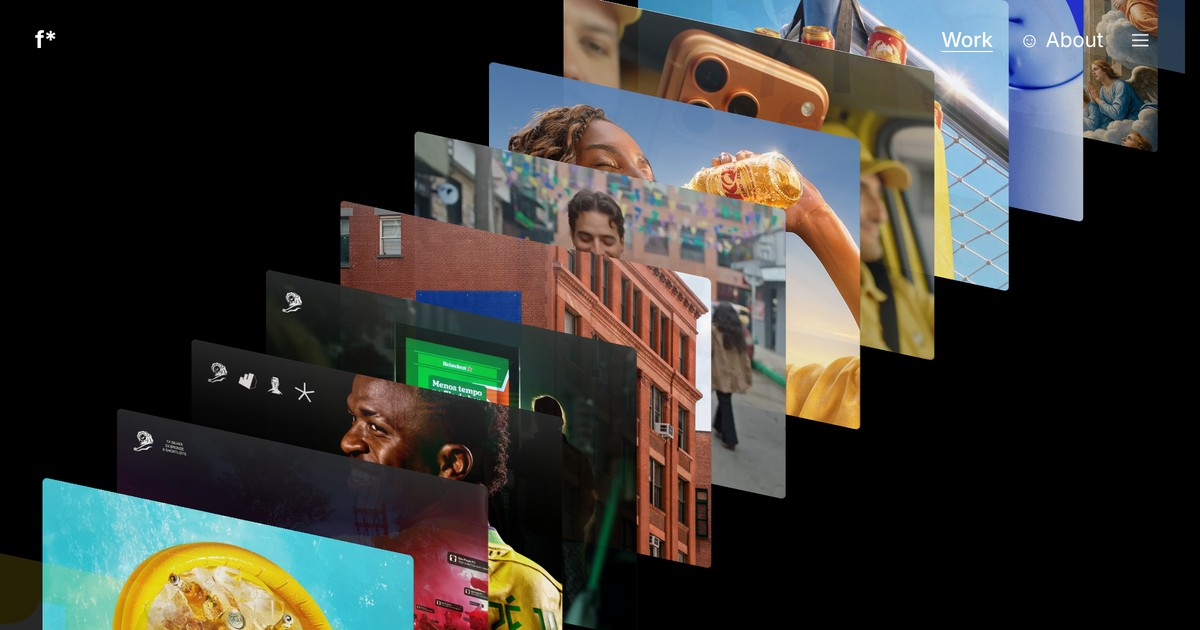
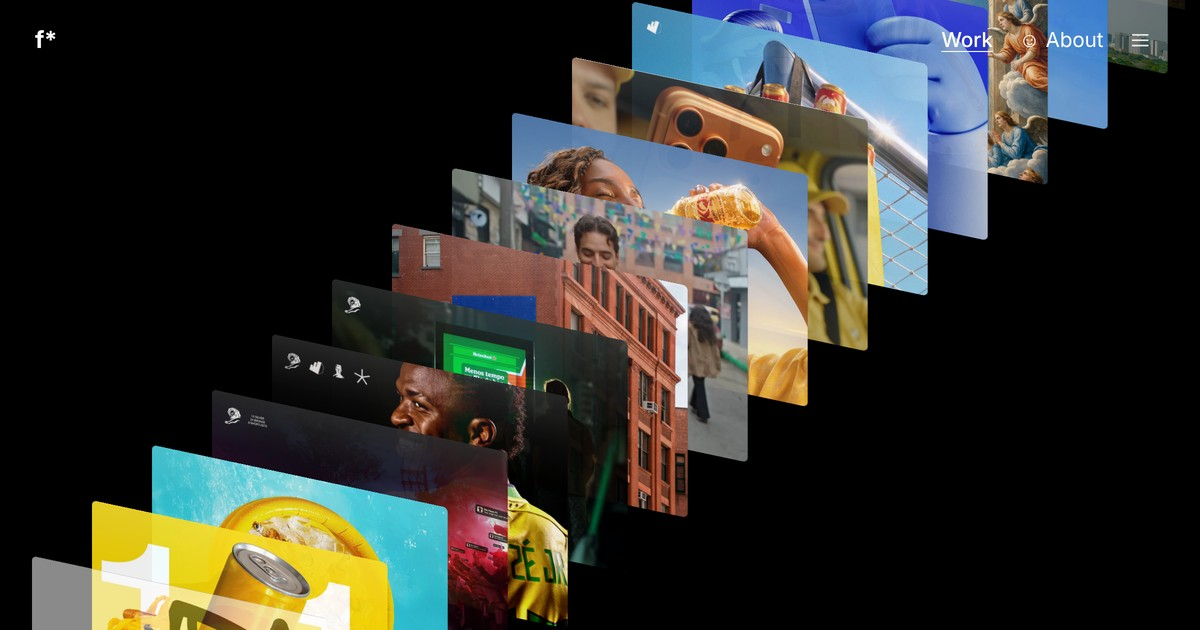
Pilha: capas 20% menores, espaçamento menor e fila mais longa
Claude-Session: https://claude.ai/code/session_01Cy34iprZWCRw34QxSAkRPn

diff --git a/site/404.html b/site/404.html
@@ -9,7 +9,7 @@
 <meta property="og:description" content="Flávio Salzer is a Creative Director and Art Director based in São Paulo. Former LePub and Africa, now back at GUT. Selected work for Zé Delivery, Heineken, New Balance, Skol and more.">
 <meta property="og:type" content="website">
 <meta property="og:url" content="https://flaviosalzer.com/">
-<meta property="og:image" content="https://flaviosalzer.com/og/home.jpg?v=5e35f087">
+<meta property="og:image" content="https://flaviosalzer.com/og/home.jpg?v=e411ae53">
 <meta property="og:image:width" content="1200">
 <meta property="og:image:height" content="630">
 <meta name="twitter:card" content="summary_large_image">
@@ -773,7 +773,7 @@ html,body{background:#000}
     const place = () => {
       raf = 0;
       if (!active()) return;
-      const W = innerWidth, H = innerHeight, ch = H * 0.46, cw = ch * 1891 / 1479;   // whole covers, about half the screen tall
+      const W = innerWidth, H = innerHeight, ch = H * 0.368, cw = ch * 1891 / 1479;   // whole covers, about half the screen tall
       deckEl.style.setProperty('--cw', cw + 'px');
       cur += (pos - cur) * 0.06;
       let moving = Math.abs(pos - cur) > 0.0005;
@@ -784,10 +784,10 @@ html,body{background:#000}
         if (Math.abs((i === hot ? 1 : 0) - lift[i]) > 0.002) moving = true;
         if (opening) return;
         // centres run along a diagonal through the middle of the screen
-        const cx = W * 0.5 + d * W * 0.062, cy = H * 0.5 - d * H * 0.11;
+        const cx = W * 0.5 + d * W * 0.05, cy = H * 0.5 - d * H * 0.088;
         const sl = lift[i] * pw * 0.42;   // hovered card slides sideways along its own plane, staying in its layer
         const x = cx - pw / 2 + sl, y = cy - ch / 2 - pw / 2 * SK + sl * SK;
-        const op = d < -5 ? Math.max(0, 1 + (d + 5) / 1.2) : d > 4.5 ? Math.max(0, 1 - (d - 4.5) / 2.5) : 1;
+        const op = d < -6.5 ? Math.max(0, 1 + (d + 6.5) / 1.2) : d > 6 ? Math.max(0, 1 - (d - 6) / 2.5) : 1;
         c.style.transform = `translate(${x.toFixed(1)}px,${y.toFixed(1)}px) skewY(12deg) scaleX(${SX})`;
         c.style.opacity = op.toFixed(3);
         c.style.zIndex = Math.round(1000 - d * 10);

diff --git a/site/index.html b/site/index.html
@@ -9,7 +9,7 @@
 <meta property="og:description" content="Flávio Salzer is a Creative Director and Art Director based in São Paulo. Former LePub and Africa, now back at GUT. Selected work for Zé Delivery, Heineken, New Balance, Skol and more.">
 <meta property="og:type" content="website">
 <meta property="og:url" content="https://flaviosalzer.com/">
-<meta property="og:image" content="https://flaviosalzer.com/og/home.jpg?v=5e35f087">
+<meta property="og:image" content="https://flaviosalzer.com/og/home.jpg?v=e411ae53">
 <meta property="og:image:width" content="1200">
 <meta property="og:image:height" content="630">
 <meta name="twitter:card" content="summary_large_image">
@@ -773,7 +773,7 @@ html,body{background:#000}
     const place = () => {
       raf = 0;
       if (!active()) return;
-      const W = innerWidth, H = innerHeight, ch = H * 0.46, cw = ch * 1891 / 1479;   // whole covers, about half the screen tall
+      const W = innerWidth, H = innerHeight, ch = H * 0.368, cw = ch * 1891 / 1479;   // whole covers, about half the screen tall
       deckEl.style.setProperty('--cw', cw + 'px');
       cur += (pos - cur) * 0.06;
       let moving = Math.abs(pos - cur) > 0.0005;
@@ -784,10 +784,10 @@ html,body{background:#000}
         if (Math.abs((i === hot ? 1 : 0) - lift[i]) > 0.002) moving = true;
         if (opening) return;
         // centres run along a diagonal through the middle of the screen
-        const cx = W * 0.5 + d * W * 0.062, cy = H * 0.5 - d * H * 0.11;
+        const cx = W * 0.5 + d * W * 0.05, cy = H * 0.5 - d * H * 0.088;
         const sl = lift[i] * pw * 0.42;   // hovered card slides sideways along its own plane, staying in its layer
         const x = cx - pw / 2 + sl, y = cy - ch / 2 - pw / 2 * SK + sl * SK;
-        const op = d < -5 ? Math.max(0, 1 + (d + 5) / 1.2) : d > 4.5 ? Math.max(0, 1 - (d - 4.5) / 2.5) : 1;
+        const op = d < -6.5 ? Math.max(0, 1 + (d + 6.5) / 1.2) : d > 6 ? Math.max(0, 1 - (d - 6) / 2.5) : 1;
         c.style.transform = `translate(${x.toFixed(1)}px,${y.toFixed(1)}px) skewY(12deg) scaleX(${SX})`;
         c.style.opacity = op.toFixed(3);
         c.style.zIndex = Math.round(1000 - d * 10);

diff --git a/site/ai-assisted/index.html b/site/ai-assisted/index.html
@@ -781,7 +781,7 @@ html,body{background:#000}
     const place = () => {
       raf = 0;
       if (!active()) return;
-      const W = innerWidth, H = innerHeight, ch = H * 0.46, cw = ch * 1891 / 1479;   // whole covers, about half the screen tall
+      const W = innerWidth, H = innerHeight, ch = H * 0.368, cw = ch * 1891 / 1479;   // whole covers, about half the screen tall
       deckEl.style.setProperty('--cw', cw + 'px');
       cur += (pos - cur) * 0.06;
       let moving = Math.abs(pos - cur) > 0.0005;
@@ -792,10 +792,10 @@ html,body{background:#000}
         if (Math.abs((i === hot ? 1 : 0) - lift[i]) > 0.002) moving = true;
         if (opening) return;
         // centres run along a diagonal through the middle of the screen
-        const cx = W * 0.5 + d * W * 0.062, cy = H * 0.5 - d * H * 0.11;
+        const cx = W * 0.5 + d * W * 0.05, cy = H * 0.5 - d * H * 0.088;
         const sl = lift[i] * pw * 0.42;   // hovered card slides sideways along its own plane, staying in its layer
         const x = cx - pw / 2 + sl, y = cy - ch / 2 - pw / 2 * SK + sl * SK;
-        const op = d < -5 ? Math.max(0, 1 + (d + 5) / 1.2) : d > 4.5 ? Math.max(0, 1 - (d - 4.5) / 2.5) : 1;
+        const op = d < -6.5 ? Math.max(0, 1 + (d + 6.5) / 1.2) : d > 6 ? Math.max(0, 1 - (d - 6) / 2.5) : 1;
         c.style.transform = `translate(${x.toFixed(1)}px,${y.toFixed(1)}px) skewY(12deg) scaleX(${SX})`;
         c.style.opacity = op.toFixed(3);
         c.style.zIndex = Math.round(1000 - d * 10);

diff --git a/site/ceu-azul/index.html b/site/ceu-azul/index.html
@@ -781,7 +781,7 @@ html,body{background:#000}
     const place = () => {
       raf = 0;
       if (!active()) return;
-      const W = innerWidth, H = innerHeight, ch = H * 0.46, cw = ch * 1891 / 1479;   // whole covers, about half the screen tall
+      const W = innerWidth, H = innerHeight, ch = H * 0.368, cw = ch * 1891 / 1479;   // whole covers, about half the screen tall
       deckEl.style.setProperty('--cw', cw + 'px');
       cur += (pos - cur) * 0.06;
       let moving = Math.abs(pos - cur) > 0.0005;
@@ -792,10 +792,10 @@ html,body{background:#000}
         if (Math.abs((i === hot ? 1 : 0) - lift[i]) > 0.002) moving = true;
         if (opening) return;
         // centres run along a diagonal through the middle of the screen
-        const cx = W * 0.5 + d * W * 0.062, cy = H * 0.5 - d * H * 0.11;
+        const cx = W * 0.5 + d * W * 0.05, cy = H * 0.5 - d * H * 0.088;
         const sl = lift[i] * pw * 0.42;   // hovered card slides sideways along its own plane, staying in its layer
         const x = cx - pw / 2 + sl, y = cy - ch / 2 - pw / 2 * SK + sl * SK;
-        const op = d < -5 ? Math.max(0, 1 + (d + 5) / 1.2) : d > 4.5 ? Math.max(0, 1 - (d - 4.5) / 2.5) : 1;
+        const op = d < -6.5 ? Math.max(0, 1 + (d + 6.5) / 1.2) : d > 6 ? Math.max(0, 1 - (d - 6) / 2.5) : 1;
         c.style.transform = `translate(${x.toFixed(1)}px,${y.toFixed(1)}px) skewY(12deg) scaleX(${SX})`;
         c.style.opacity = op.toFixed(3);
         c.style.zIndex = Math.round(1000 - d * 10);

diff --git a/site/congress-league/index.html b/site/congress-league/index.html
@@ -778,7 +778,7 @@ html,body{background:#000}
     const place = () => {
       raf = 0;
       if (!active()) return;
-      const W = innerWidth, H = innerHeight, ch = H * 0.46, cw = ch * 1891 / 1479;   // whole covers, about half the screen tall
+      const W = innerWidth, H = innerHeight, ch = H * 0.368, cw = ch * 1891 / 1479;   // whole covers, about half the screen tall
       deckEl.style.setProperty('--cw', cw + 'px');
       cur += (pos - cur) * 0.06;
       let moving = Math.abs(pos - cur) > 0.0005;
@@ -789,10 +789,10 @@ html,body{background:#000}
         if (Math.abs((i === hot ? 1 : 0) - lift[i]) > 0.002) moving = true;
         if (opening) return;
         // centres run along a diagonal through the middle of the screen
-        const cx = W * 0.5 + d * W * 0.062, cy = H * 0.5 - d * H * 0.11;
+        const cx = W * 0.5 + d * W * 0.05, cy = H * 0.5 - d * H * 0.088;
         const sl = lift[i] * pw * 0.42;   // hovered card slides sideways along its own plane, staying in its layer
         const x = cx - pw / 2 + sl, y = cy - ch / 2 - pw / 2 * SK + sl * SK;
-        const op = d < -5 ? Math.max(0, 1 + (d + 5) / 1.2) : d > 4.5 ? Math.max(0, 1 - (d - 4.5) / 2.5) : 1;
+        const op = d < -6.5 ? Math.max(0, 1 + (d + 6.5) / 1.2) : d > 6 ? Math.max(0, 1 - (d - 6) / 2.5) : 1;
         c.style.transform = `translate(${x.toFixed(1)}px,${y.toFixed(1)}px) skewY(12deg) scaleX(${SX})`;
         c.style.opacity = op.toFixed(3);
         c.style.zIndex = Math.round(1000 - d * 10);

diff --git a/site/copia-de-iphone-17pro-x-mercado-libre/index.html b/site/copia-de-iphone-17pro-x-mercado-libre/index.html
@@ -776,7 +776,7 @@ html,body{background:#000}
     const place = () => {
       raf = 0;
       if (!active()) return;
-      const W = innerWidth, H = innerHeight, ch = H * 0.46, cw = ch * 1891 / 1479;   // whole covers, about half the screen tall
+      const W = innerWidth, H = innerHeight, ch = H * 0.368, cw = ch * 1891 / 1479;   // whole covers, about half the screen tall
       deckEl.style.setProperty('--cw', cw + 'px');
       cur += (pos - cur) * 0.06;
       let moving = Math.abs(pos - cur) > 0.0005;
@@ -787,10 +787,10 @@ html,body{background:#000}
         if (Math.abs((i === hot ? 1 : 0) - lift[i]) > 0.002) moving = true;
         if (opening) return;
         // centres run along a diagonal through the middle of the screen
-        const cx = W * 0.5 + d * W * 0.062, cy = H * 0.5 - d * H * 0.11;
+        const cx = W * 0.5 + d * W * 0.05, cy = H * 0.5 - d * H * 0.088;
         const sl = lift[i] * pw * 0.42;   // hovered card slides sideways along its own plane, staying in its layer
         const x = cx - pw / 2 + sl, y = cy - ch / 2 - pw / 2 * SK + sl * SK;
-        const op = d < -5 ? Math.max(0, 1 + (d + 5) / 1.2) : d > 4.5 ? Math.max(0, 1 - (d - 4.5) / 2.5) : 1;
+        const op = d < -6.5 ? Math.max(0, 1 + (d + 6.5) / 1.2) : d > 6 ? Math.max(0, 1 - (d - 6) / 2.5) : 1;
         c.style.transform = `translate(${x.toFixed(1)}px,${y.toFixed(1)}px) skewY(12deg) scaleX(${SX})`;
         c.style.opacity = op.toFixed(3);
         c.style.zIndex = Math.round(1000 - d * 10);

diff --git a/site/delivery-pool/index.html b/site/delivery-pool/index.html
@@ -780,7 +780,7 @@ html,body{background:#000}
     const place = () => {
       raf = 0;
       if (!active()) return;
-      const W = innerWidth, H = innerHeight, ch = H * 0.46, cw = ch * 1891 / 1479;   // whole covers, about half the screen tall
+      const W = innerWidth, H = innerHeight, ch = H * 0.368, cw = ch * 1891 / 1479;   // whole covers, about half the screen tall
       deckEl.style.setProperty('--cw', cw + 'px');
       cur += (pos - cur) * 0.06;
       let moving = Math.abs(pos - cur) > 0.0005;
@@ -791,10 +791,10 @@ html,body{background:#000}
         if (Math.abs((i === hot ? 1 : 0) - lift[i]) > 0.002) moving = true;
         if (opening) return;
         // centres run along a diagonal through the middle of the screen
-        const cx = W * 0.5 + d * W * 0.062, cy = H * 0.5 - d * H * 0.11;
+        const cx = W * 0.5 + d * W * 0.05, cy = H * 0.5 - d * H * 0.088;
         const sl = lift[i] * pw * 0.42;   // hovered card slides sideways along its own plane, staying in its layer
         const x = cx - pw / 2 + sl, y = cy - ch / 2 - pw / 2 * SK + sl * SK;
-        const op = d < -5 ? Math.max(0, 1 + (d + 5) / 1.2) : d > 4.5 ? Math.max(0, 1 - (d - 4.5) / 2.5) : 1;
+        const op = d < -6.5 ? Math.max(0, 1 + (d + 6.5) / 1.2) : d > 6 ? Math.max(0, 1 - (d - 6) / 2.5) : 1;
         c.style.transform = `translate(${x.toFixed(1)}px,${y.toFixed(1)}px) skewY(12deg) scaleX(${SX})`;
         c.style.opacity = op.toFixed(3);
         c.style.zIndex = Math.round(1000 - d * 10);

diff --git a/site/finishline-club/index.html b/site/finishline-club/index.html
@@ -788,7 +788,7 @@ html,body{background:#000}
     const place = () => {
       raf = 0;
       if (!active()) return;
-      const W = innerWidth, H = innerHeight, ch = H * 0.46, cw = ch * 1891 / 1479;   // whole covers, about half the screen tall
+      const W = innerWidth, H = innerHeight, ch = H * 0.368, cw = ch * 1891 / 1479;   // whole covers, about half the screen tall
       deckEl.style.setProperty('--cw', cw + 'px');
       cur += (pos - cur) * 0.06;
       let moving = Math.abs(pos - cur) > 0.0005;
@@ -799,10 +799,10 @@ html,body{background:#000}
         if (Math.abs((i === hot ? 1 : 0) - lift[i]) > 0.002) moving = true;
         if (opening) return;
         // centres run along a diagonal through the middle of the screen
-        const cx = W * 0.5 + d * W * 0.062, cy = H * 0.5 - d * H * 0.11;
+        const cx = W * 0.5 + d * W * 0.05, cy = H * 0.5 - d * H * 0.088;
         const sl = lift[i] * pw * 0.42;   // hovered card slides sideways along its own plane, staying in its layer
         const x = cx - pw / 2 + sl, y = cy - ch / 2 - pw / 2 * SK + sl * SK;
-        const op = d < -5 ? Math.max(0, 1 + (d + 5) / 1.2) : d > 4.5 ? Math.max(0, 1 - (d - 4.5) / 2.5) : 1;
+        const op = d < -6.5 ? Math.max(0, 1 + (d + 6.5) / 1.2) : d > 6 ? Math.max(0, 1 - (d - 6) / 2.5) : 1;
         c.style.transform = `translate(${x.toFixed(1)}px,${y.toFixed(1)}px) skewY(12deg) scaleX(${SX})`;
         c.style.opacity = op.toFixed(3);
         c.style.zIndex = Math.round(1000 - d * 10);

diff --git a/site/flavio/index.html b/site/flavio/index.html
@@ -773,7 +773,7 @@ html,body{background:#000}
     const place = () => {
       raf = 0;
       if (!active()) return;
-      const W = innerWidth, H = innerHeight, ch = H * 0.46, cw = ch * 1891 / 1479;   // whole covers, about half the screen tall
+      const W = innerWidth, H = innerHeight, ch = H * 0.368, cw = ch * 1891 / 1479;   // whole covers, about half the screen tall
       deckEl.style.setProperty('--cw', cw + 'px');
       cur += (pos - cur) * 0.06;
       let moving = Math.abs(pos - cur) > 0.0005;
@@ -784,10 +784,10 @@ html,body{background:#000}
         if (Math.abs((i === hot ? 1 : 0) - lift[i]) > 0.002) moving = true;
         if (opening) return;
         // centres run along a diagonal through the middle of the screen
-        const cx = W * 0.5 + d * W * 0.062, cy = H * 0.5 - d * H * 0.11;
+        const cx = W * 0.5 + d * W * 0.05, cy = H * 0.5 - d * H * 0.088;
         const sl = lift[i] * pw * 0.42;   // hovered card slides sideways along its own plane, staying in its layer
         const x = cx - pw / 2 + sl, y = cy - ch / 2 - pw / 2 * SK + sl * SK;
-        const op = d < -5 ? Math.max(0, 1 + (d + 5) / 1.2) : d > 4.5 ? Math.max(0, 1 - (d - 4.5) / 2.5) : 1;
+        const op = d < -6.5 ? Math.max(0, 1 + (d + 6.5) / 1.2) : d > 6 ? Math.max(0, 1 - (d - 6) / 2.5) : 1;
         c.style.transform = `translate(${x.toFixed(1)}px,${y.toFixed(1)}px) skewY(12deg) scaleX(${SX})`;
         c.style.opacity = op.toFixed(3);
         c.style.zIndex = Math.round(1000 - d * 10);

diff --git a/site/flexmode/index.html b/site/flexmode/index.html
@@ -774,7 +774,7 @@ html,body{background:#000}
     const place = () => {
       raf = 0;
       if (!active()) return;
-      const W = innerWidth, H = innerHeight, ch = H * 0.46, cw = ch * 1891 / 1479;   // whole covers, about half the screen tall
+      const W = innerWidth, H = innerHeight, ch = H * 0.368, cw = ch * 1891 / 1479;   // whole covers, about half the screen tall
       deckEl.style.setProperty('--cw', cw + 'px');
       cur += (pos - cur) * 0.06;
       let moving = Math.abs(pos - cur) > 0.0005;
@@ -785,10 +785,10 @@ html,body{background:#000}
         if (Math.abs((i === hot ? 1 : 0) - lift[i]) > 0.002) moving = true;
         if (opening) return;
         // centres run along a diagonal through the middle of the screen
-        const cx = W * 0.5 + d * W * 0.062, cy = H * 0.5 - d * H * 0.11;
+        const cx = W * 0.5 + d * W * 0.05, cy = H * 0.5 - d * H * 0.088;
         const sl = lift[i] * pw * 0.42;   // hovered card slides sideways along its own plane, staying in its layer
         const x = cx - pw / 2 + sl, y = cy - ch / 2 - pw / 2 * SK + sl * SK;
-        const op = d < -5 ? Math.max(0, 1 + (d + 5) / 1.2) : d > 4.5 ? Math.max(0, 1 - (d - 4.5) / 2.5) : 1;
+        const op = d < -6.5 ? Math.max(0, 1 + (d + 6.5) / 1.2) : d > 6 ? Math.max(0, 1 - (d - 6) / 2.5) : 1;
         c.style.transform = `translate(${x.toFixed(1)}px,${y.toFixed(1)}px) skewY(12deg) scaleX(${SX})`;
         c.style.opacity = op.toFixed(3);
         c.style.zIndex = Math.round(1000 - d * 10);

diff --git a/site/followers/index.html b/site/followers/index.html
@@ -780,7 +780,7 @@ html,body{background:#000}
     const place = () => {
       raf = 0;
       if (!active()) return;
-      const W = innerWidth, H = innerHeight, ch = H * 0.46, cw = ch * 1891 / 1479;   // whole covers, about half the screen tall
+      const W = innerWidth, H = innerHeight, ch = H * 0.368, cw = ch * 1891 / 1479;   // whole covers, about half the screen tall
       deckEl.style.setProperty('--cw', cw + 'px');
       cur += (pos - cur) * 0.06;
       let moving = Math.abs(pos - cur) > 0.0005;
@@ -791,10 +791,10 @@ html,body{background:#000}
         if (Math.abs((i === hot ? 1 : 0) - lift[i]) > 0.002) moving = true;
         if (opening) return;
         // centres run along a diagonal through the middle of the screen
-        const cx = W * 0.5 + d * W * 0.062, cy = H * 0.5 - d * H * 0.11;
+        const cx = W * 0.5 + d * W * 0.05, cy = H * 0.5 - d * H * 0.088;
         const sl = lift[i] * pw * 0.42;   // hovered card slides sideways along its own plane, staying in its layer
         const x = cx - pw / 2 + sl, y = cy - ch / 2 - pw / 2 * SK + sl * SK;
-        const op = d < -5 ? Math.max(0, 1 + (d + 5) / 1.2) : d > 4.5 ? Math.max(0, 1 - (d - 4.5) / 2.5) : 1;
+        const op = d < -6.5 ? Math.max(0, 1 + (d + 6.5) / 1.2) : d > 6 ? Math.max(0, 1 - (d - 6) / 2.5) : 1;
         c.style.transform = `translate(${x.toFixed(1)}px,${y.toFixed(1)}px) skewY(12deg) scaleX(${SX})`;
         c.style.opacity = op.toFixed(3);
         c.style.zIndex = Math.round(1000 - d * 10);

diff --git a/site/hh-virtual-skol/index.html b/site/hh-virtual-skol/index.html
@@ -781,7 +781,7 @@ html,body{background:#000}
     const place = () => {
       raf = 0;
       if (!active()) return;
-      const W = innerWidth, H = innerHeight, ch = H * 0.46, cw = ch * 1891 / 1479;   // whole covers, about half the screen tall
+      const W = innerWidth, H = innerHeight, ch = H * 0.368, cw = ch * 1891 / 1479;   // whole covers, about half the screen tall
       deckEl.style.setProperty('--cw', cw + 'px');
       cur += (pos - cur) * 0.06;
       let moving = Math.abs(pos - cur) > 0.0005;
@@ -792,10 +792,10 @@ html,body{background:#000}
         if (Math.abs((i === hot ? 1 : 0) - lift[i]) > 0.002) moving = true;
         if (opening) return;
         // centres run along a diagonal through the middle of the screen
-        const cx = W * 0.5 + d * W * 0.062, cy = H * 0.5 - d * H * 0.11;
+        const cx = W * 0.5 + d * W * 0.05, cy = H * 0.5 - d * H * 0.088;
         const sl = lift[i] * pw * 0.42;   // hovered card slides sideways along its own plane, staying in its layer
         const x = cx - pw / 2 + sl, y = cy - ch / 2 - pw / 2 * SK + sl * SK;
-        const op = d < -5 ? Math.max(0, 1 + (d + 5) / 1.2) : d > 4.5 ? Math.max(0, 1 - (d - 4.5) / 2.5) : 1;
+        const op = d < -6.5 ? Math.max(0, 1 + (d + 6.5) / 1.2) : d > 6 ? Math.max(0, 1 - (d - 6) / 2.5) : 1;
         c.style.transform = `translate(${x.toFixed(1)}px,${y.toFixed(1)}px) skewY(12deg) scaleX(${SX})`;
         c.style.opacity = op.toFixed(3);
         c.style.zIndex = Math.round(1000 - d * 10);
